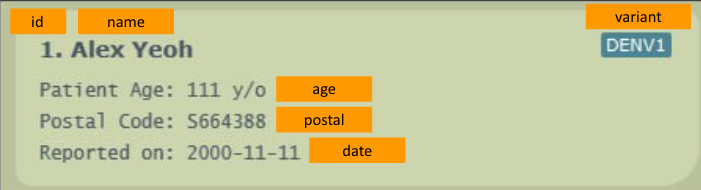
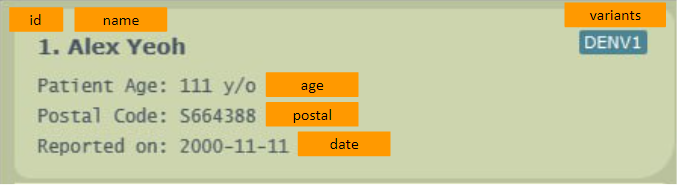
Change variant to variants in PersonCard

Changed region(s): [[0.0, 0.0, 1.0, 1.0], [0.031, 0.3743, 0.5885, 0.8824]]

diff --git a/docs/UserGuide.md b/docs/UserGuide.md
@@ -133,7 +133,7 @@ Item | Description
 **age** | Age of the person who got dengue.
 **postal** | Postal code of the person who got dengue.
 **date** | Date that the person got dengue.
-**variant** | Dengue variant of the case.
+**variants** | Dengue variants tagged to the case.
 
 <div style="page-break-after: always;"></div>
 Here is the breakdown of an individual **bin card**.
